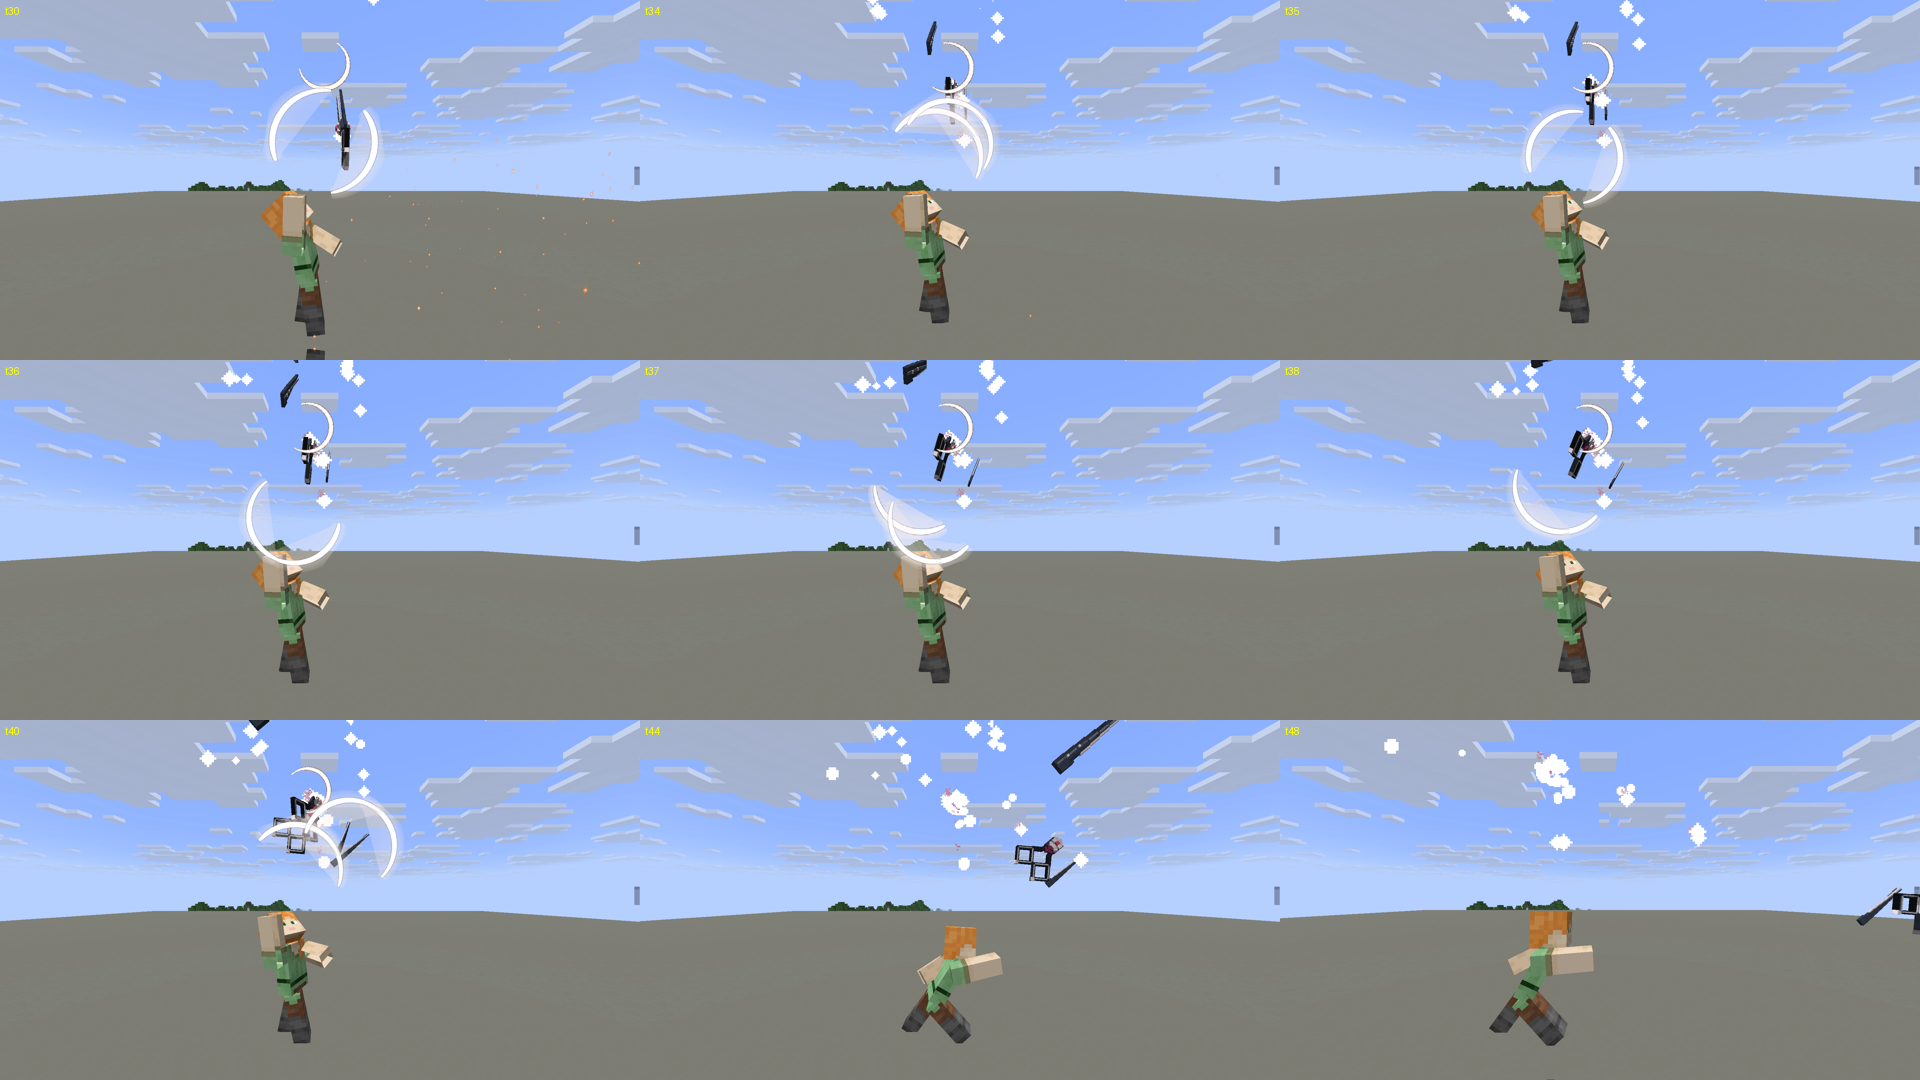
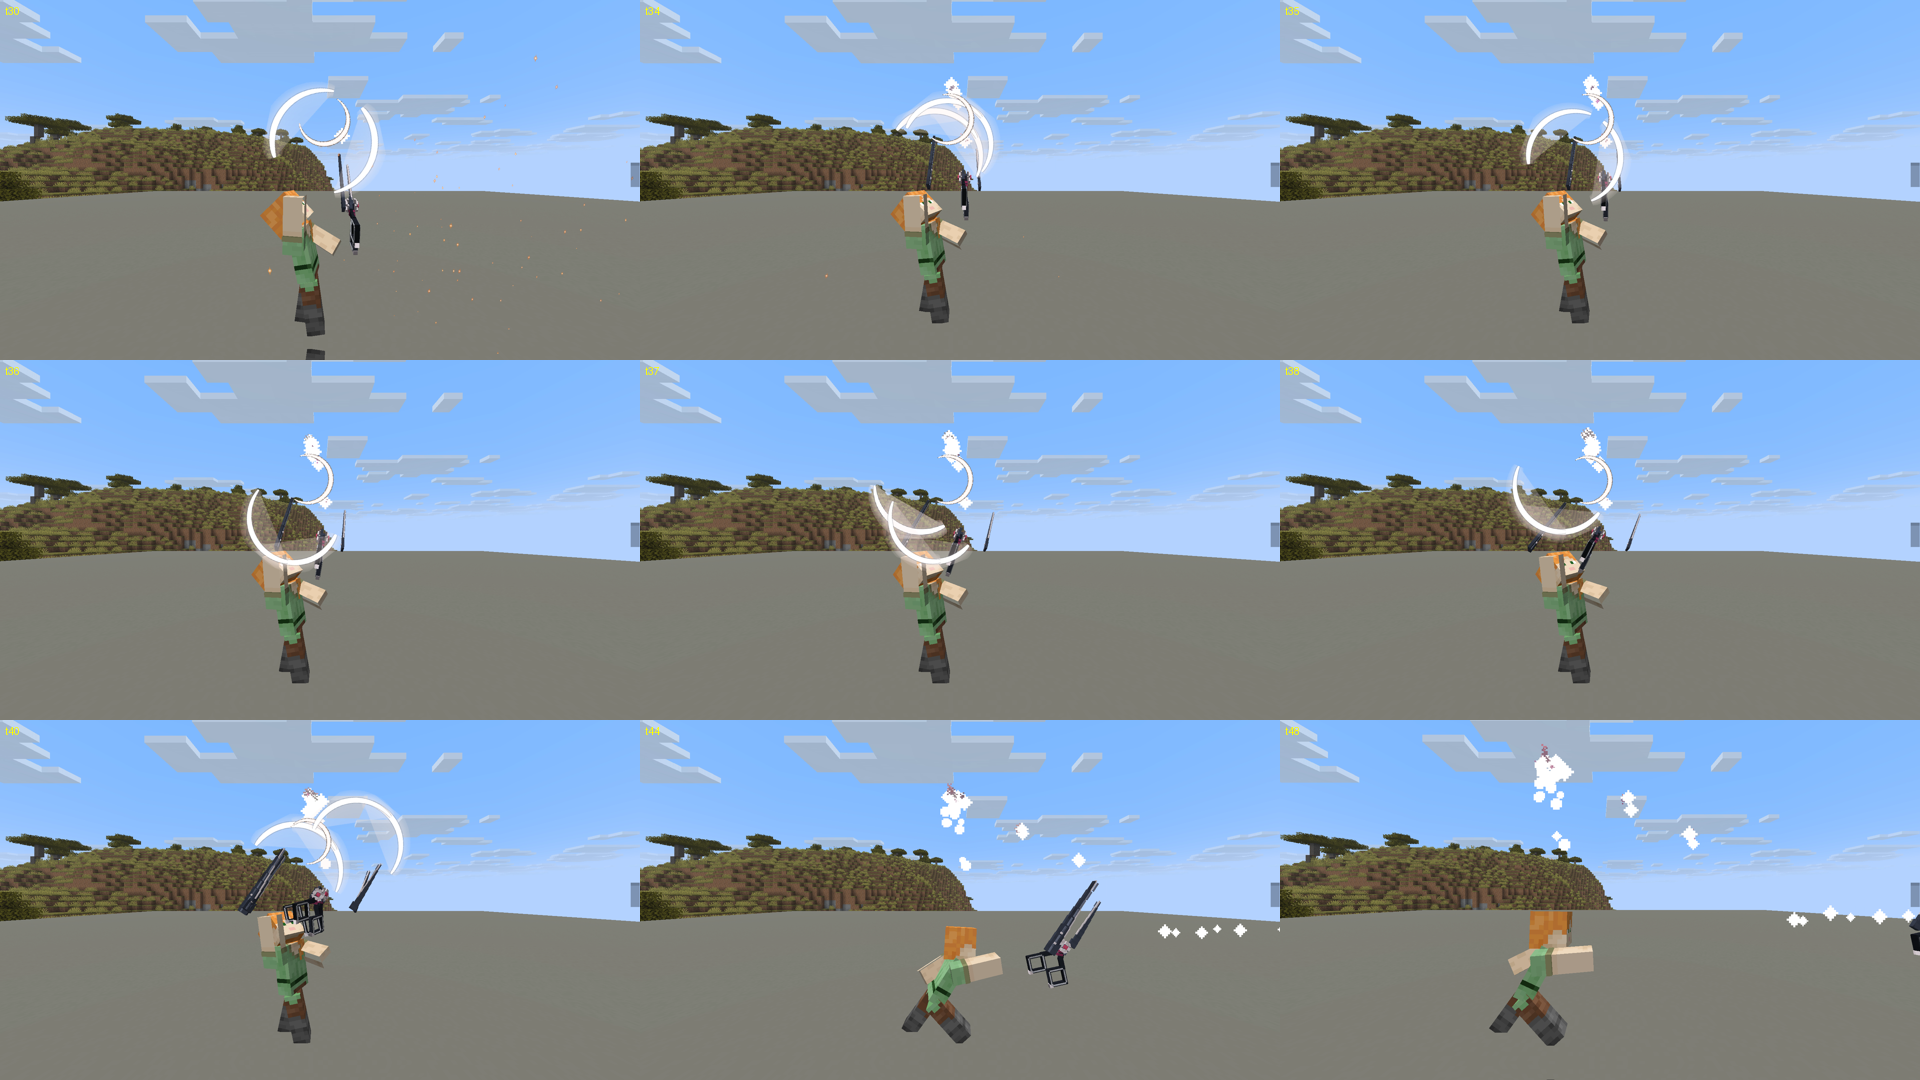
couture-s2: recapture side/top/miss, round.md notes

diff --git a/tools/skill-compare/data/couture-rapier-s2/beat-sheet/round.md b/tools/skill-compare/data/couture-rapier-s2/beat-sheet/round.md
@@ -100,3 +100,10 @@ capture miss: capture-miss.png
 - 飛翔の経路: 投射体の発射点を目の高さ -0.2 (手の高さ、糸と同じ y) にし、`aim_distance 5.4` で敵の胸へ。頭上 -> 線への降下は flight VFX の t0-3 で作る。糸が 3 つを貫く。
 - 側面: 頭上の分裂の高さを 2.05-2.4 に下げ (以前 3.3-4.0)、z 方向 (側面から見える方向) にずらした。大きな三日月 (big-c) は 0.8 下げ、頭上の火花は 4.7 -> 2.7。カメラは変えない。
 - 粒子: `briefs/particles.md` と understanding-body.md の P1-P3。音: t34 投げ、t40/41/42 の 3 つの刺さり、t50/52 糸の引き、dash 命中に crit と anvil を追加。
+
+## 2026-10-28 recapture (58d32b794, side / top / miss all OK first try, contentDirty false, published to skill-compare)
+- 側面 t22-57: 3 物とも枠内 (t34 の刃 A が左上の端に近い)。頭上の分裂 t26-34。
+- 飛翔 t36-38: 3 物が糸の線 (手 -> 敵の胸) 上または脇を進む (本体は線上)。糸は t35 から。t39-41 に敵へ刺さる。
+- 刺さり t40-42 (本体 -> 刃 A -> 刃 B の順に音)。引き戻し t51-56、t57 に消える。
+- 粒子 P1 (刃先の光) と P2 (刺さりの火花) は入れた。P3 (糸の縫い目) はエンジンが粒子の target_track を拒否するため未実装。頭上の白い火花 (overhead-spark) は残り続けて多すぎたため削除。
+- 残る限界: 敵の周りの白い粒 (t44-57) は既存の hit2 / burst の粒で、まだ多い。
